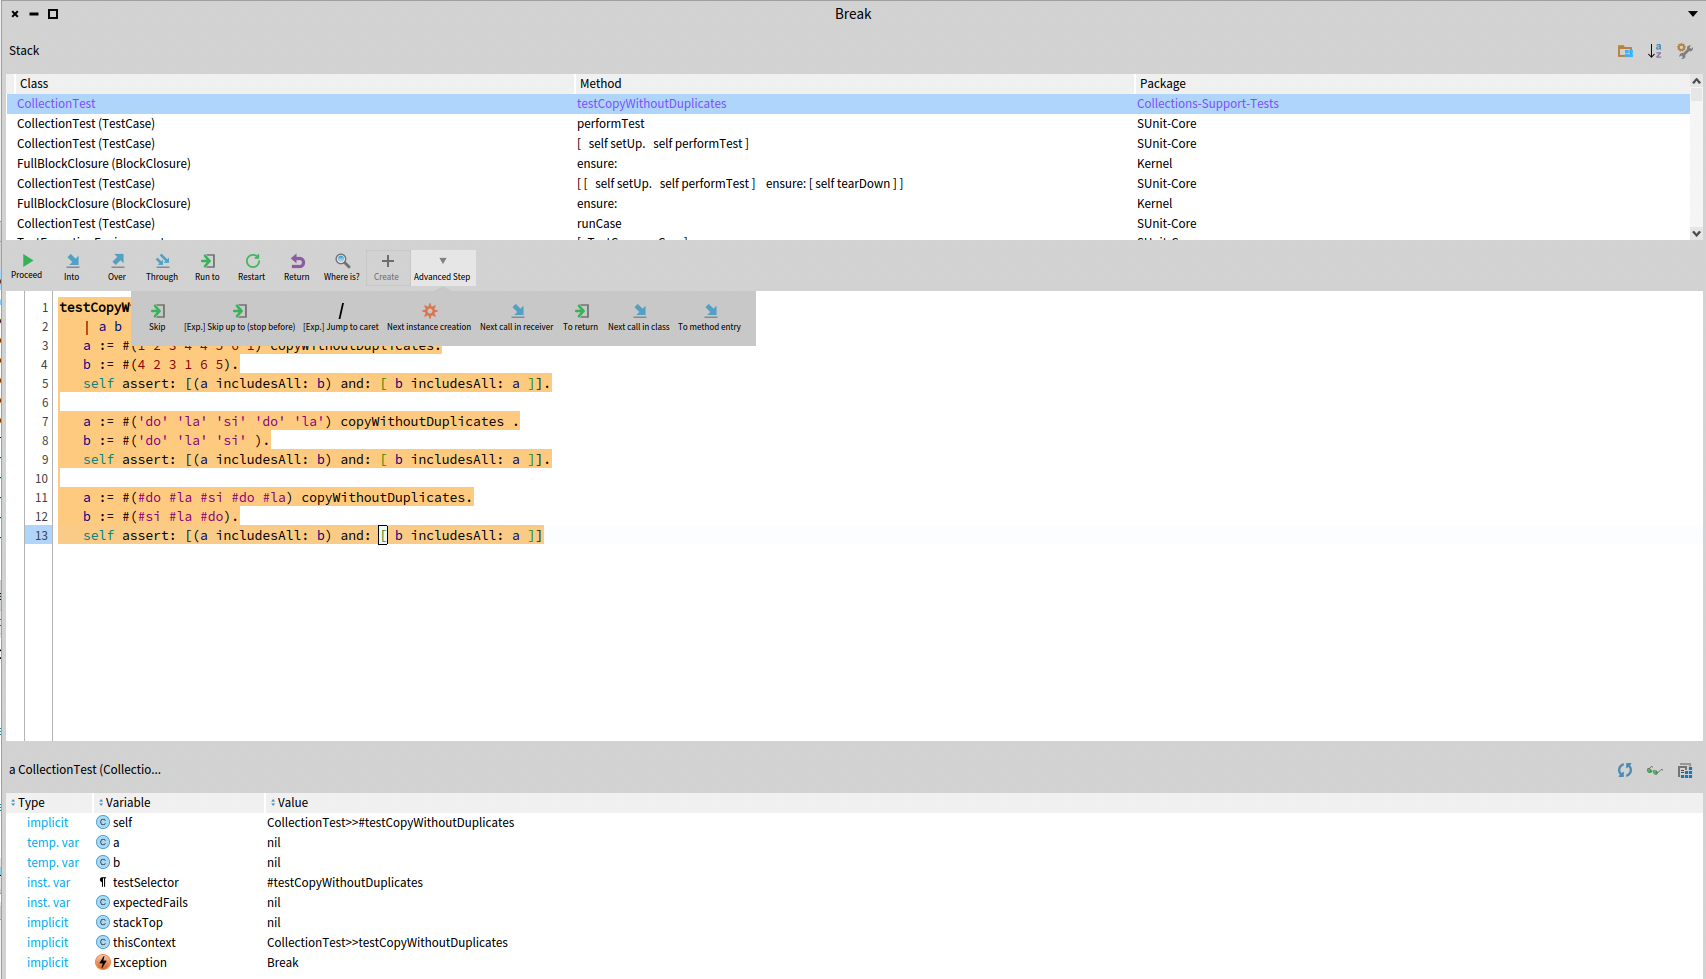
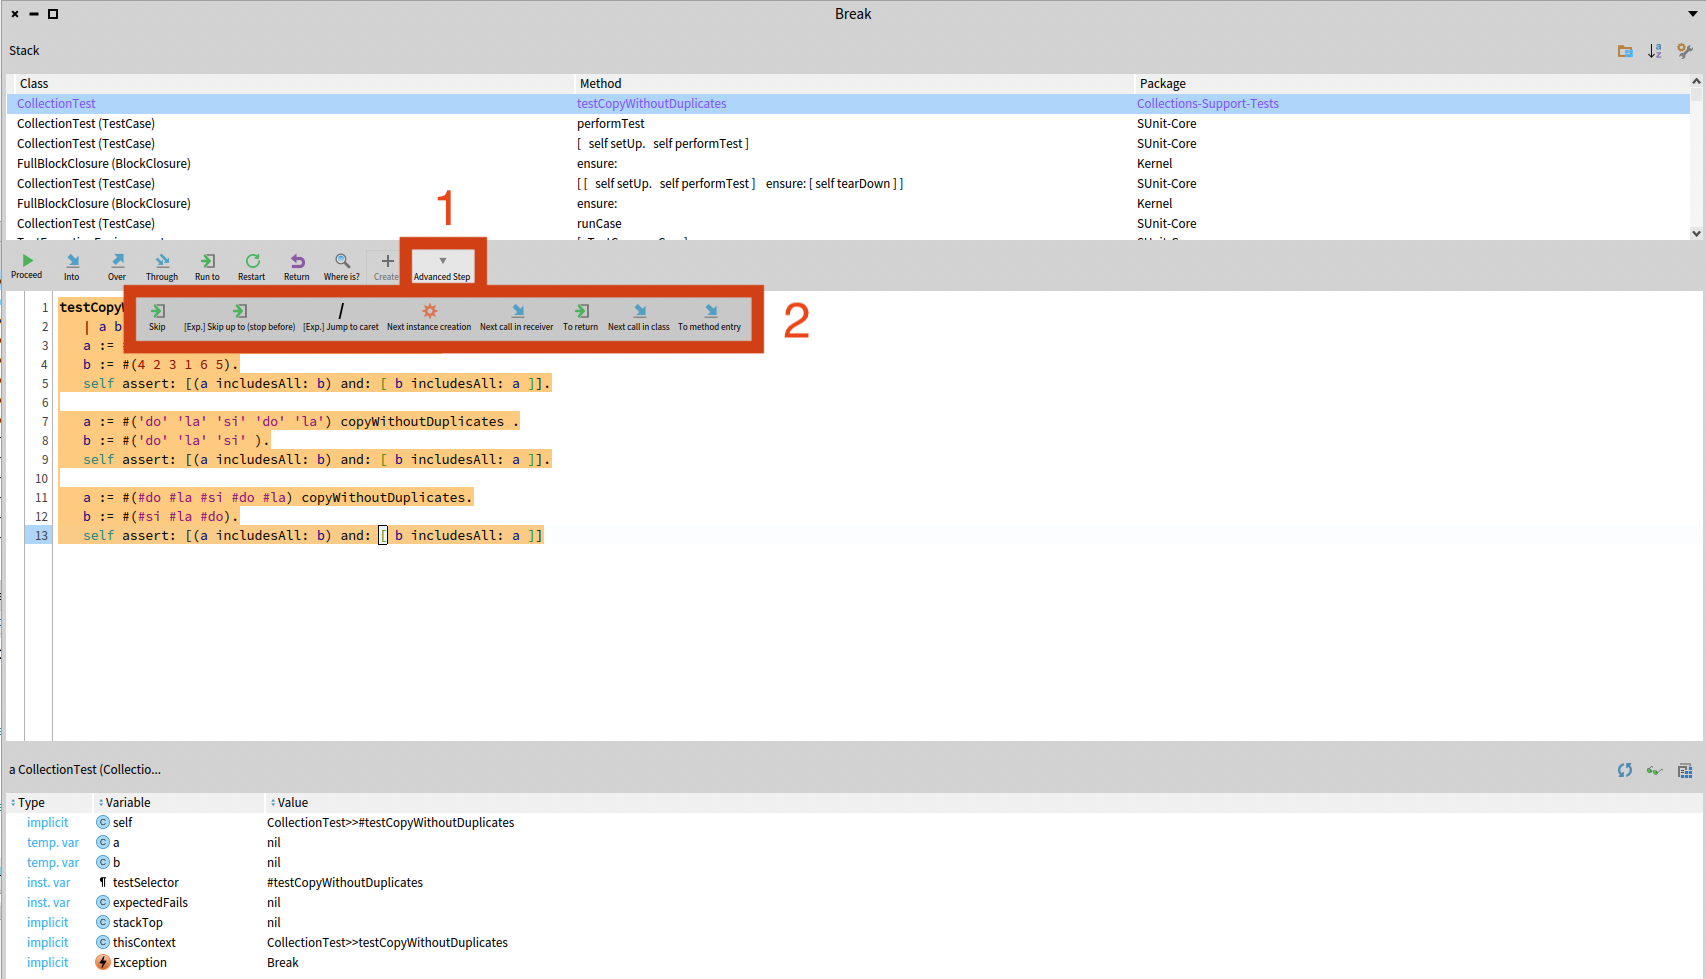
changing figures and adding new ones

Changed region(s): [[0.0621, 0.2145, 0.4971, 0.3677]]

diff --git a/chapters/advanced/advanced-commands.md b/chapters/advanced/advanced-commands.md
@@ -1,6 +1,6 @@
 ### Advanced Debugger Actions
 
-In this chapter, we describe the advanced debugging commands provided by the "Advanced step" menu in the graphical user interface, shown in the following figure:
+In this chapter, we describe the advanced debugging commands (2 in the following figure) provided by the "Advanced step" menu (1 in the following figure) in the graphical user interface:
 
 ![The debugger advanced step toolbar.](graphics/advanced-step-toolbar.png)
 
@@ -16,6 +16,11 @@ The debugging commands offered by the StDebugger in the "Advanced step" toolbar 
     - no class has been instanciated within 1000 steps,
     - an unhandled exception has been raised,
     - the current context has returned to its sender.
+
+    **Example:** 
+    After clicking "Next instance creation" (1 in the following figure) from this code location (2 in the figure below)
+
+    ![Step to next instance creation](graphics/before-step-next-creation.png)
 
 * **Next call in receiver:** Steps the execution until a message is sent to the current context's receiver.
     The execution is stopped and an error message is displayed when one of these situations happen:

diff --git a/chapters/advanced/debugger-extensions.md b/chapters/advanced/debugger-extensions.md
@@ -1,1 +1,3 @@
 ### Debugger Extensions
+
+
